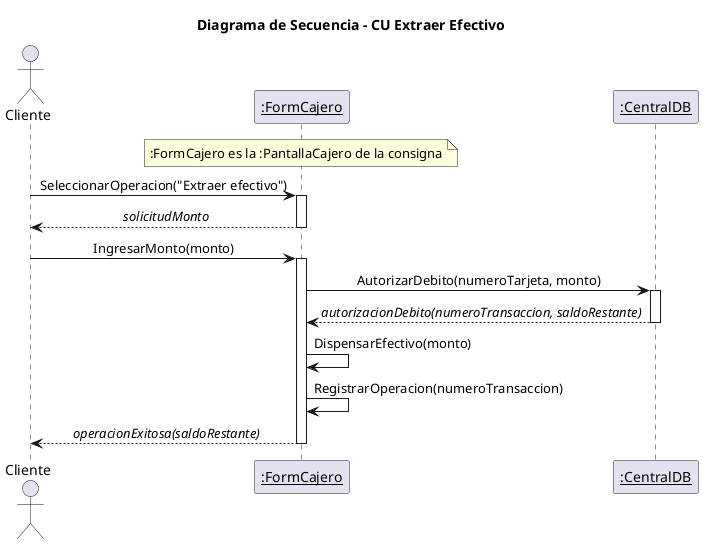
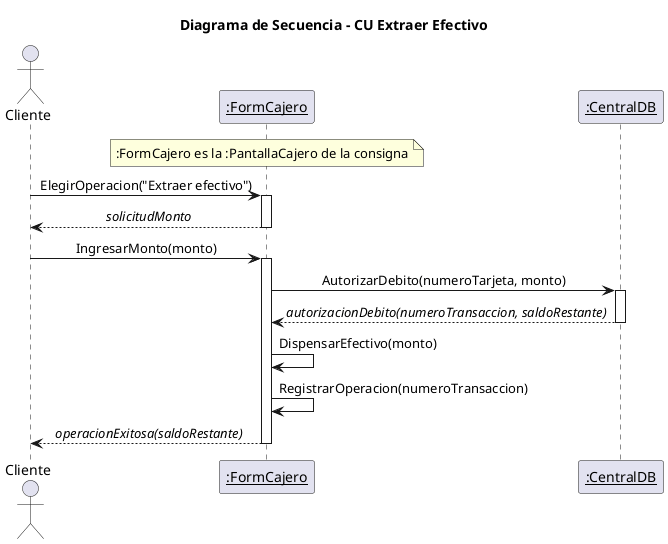
fix: correct operation name in sequence diagram and update validation script

diff --git a/diseno-e-implementacion-de-sistemas/trabajo-integrador/scripts/verificar_diagramas.py b/diseno-e-implementacion-de-sistemas/trabajo-integrador/scripts/verificar_diagramas.py
@@ -319,7 +319,7 @@ def verificar_contra_codigo() -> None:
 
     for nombre in ("05_secuencia_autenticar.puml", "06_secuencia_extraccion.puml"):
         for mensaje in re.findall(r"->\s*(?:PC|SDB|CDB|\w+)\s*:\s*(\w+)\(", leer(nombre)):
-            if mensaje in {"InsertarTarjeta", "IngresarPin", "SeleccionarOperacion", "IngresarMonto",
+            if mensaje in {"InsertarTarjeta", "IngresarPin", "ElegirOperacion", "IngresarMonto",
                            "DispensarEfectivo", "RegistrarOperacion"}:
                 continue  # acciones del cajero (:FormCajero = :PantallaCajero de la consigna: Presentation + Logic), no métodos de la capa Datos
             datos = "".join(f.read_text(encoding="utf-8") for f in (RAIZ / "src" / "Cajero" / "Data").glob("*.cs"))
